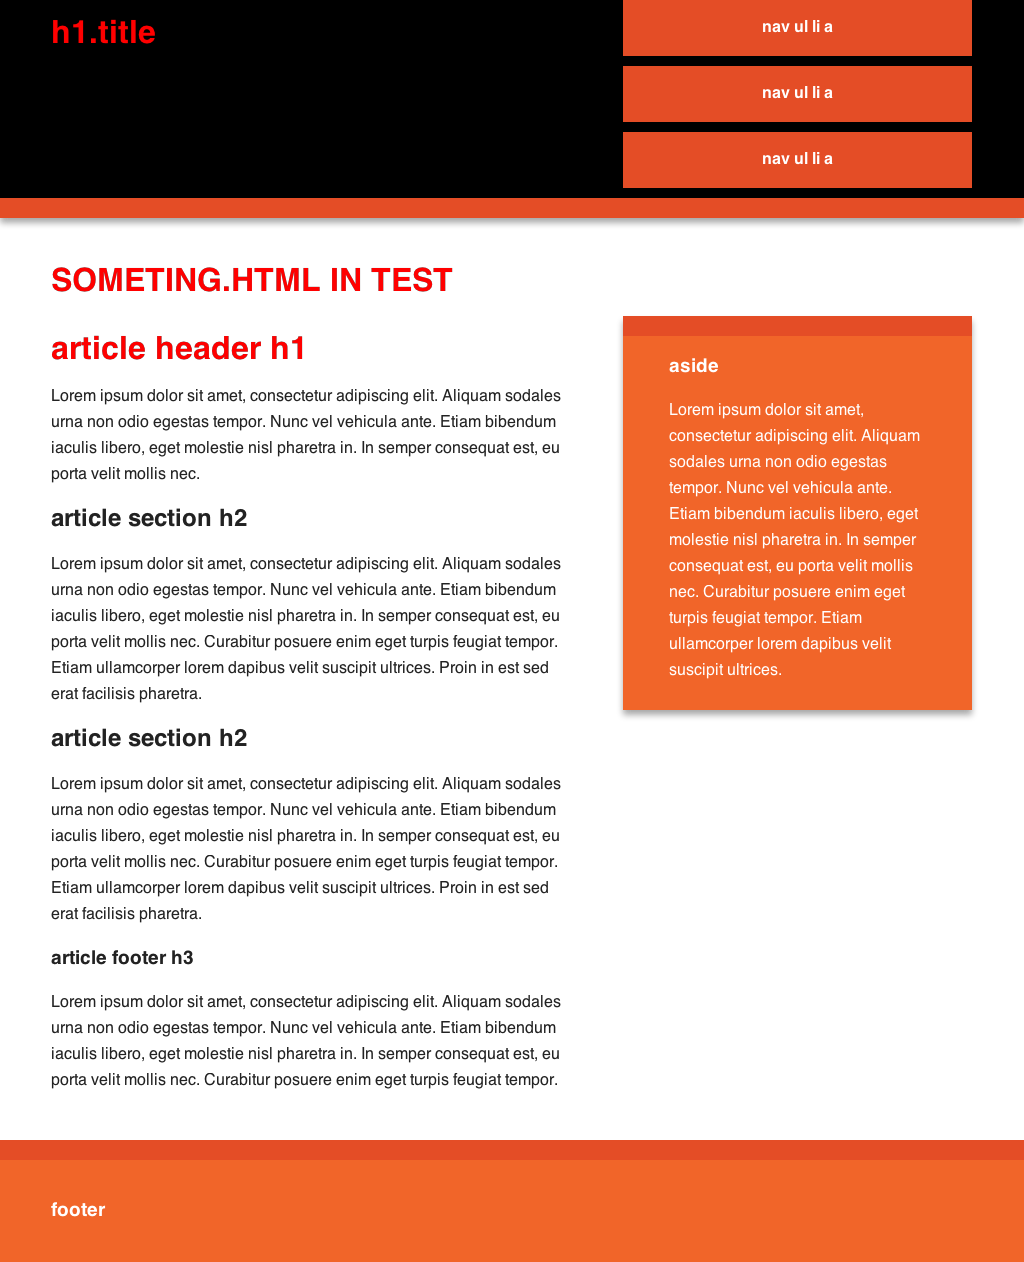
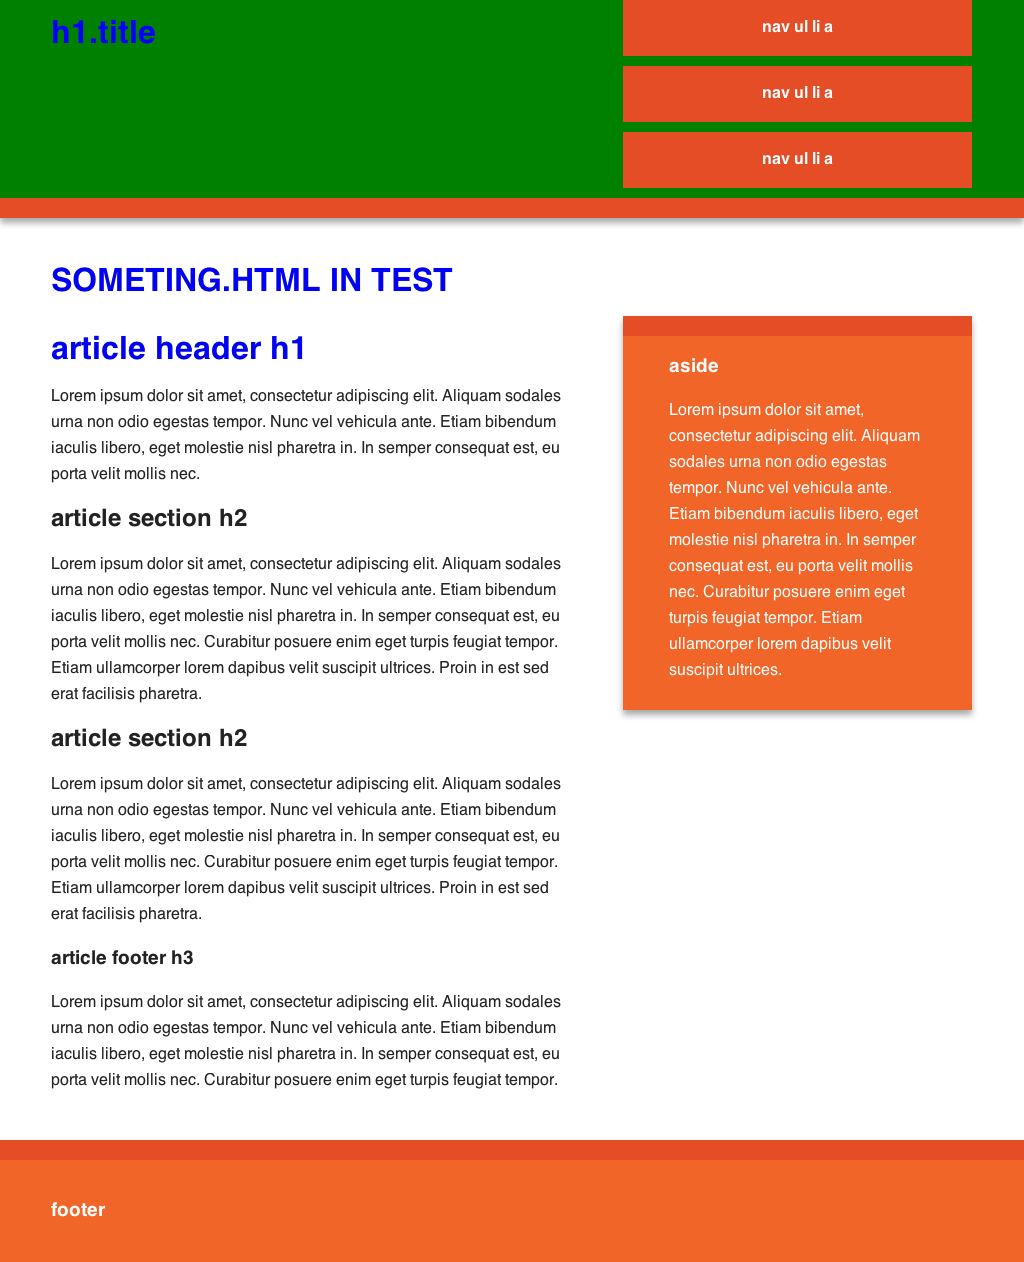
another test

Changed region(s): [[0.0, 0.0, 1.0, 0.1545], [0.0625, 0.1854, 0.4375, 0.309]]

diff --git a/test/files/css/main.css b/test/files/css/main.css
@@ -397,9 +397,9 @@ nav a:hover {
 }
 
 .header-container {
-    background: black;
+    background: green;
 }
 
 .header-container h1, body h1 {
-    color: red!important;
+    color: blue!important;
 }
